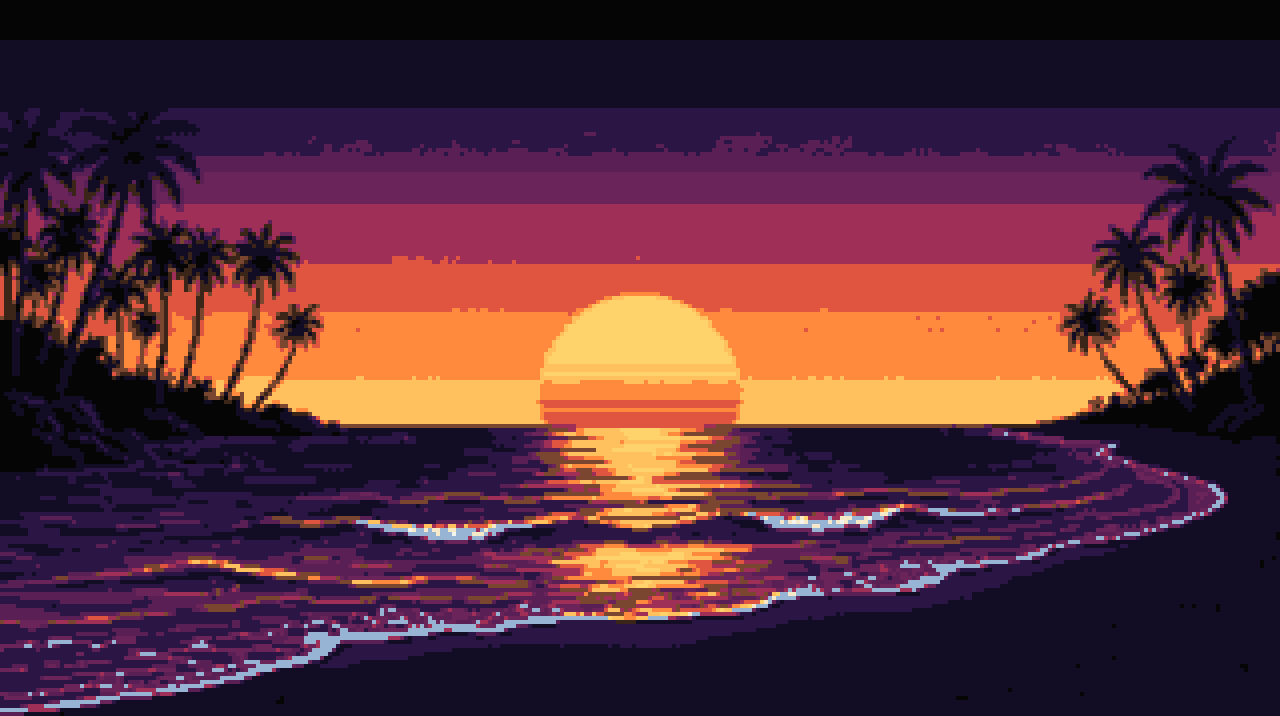
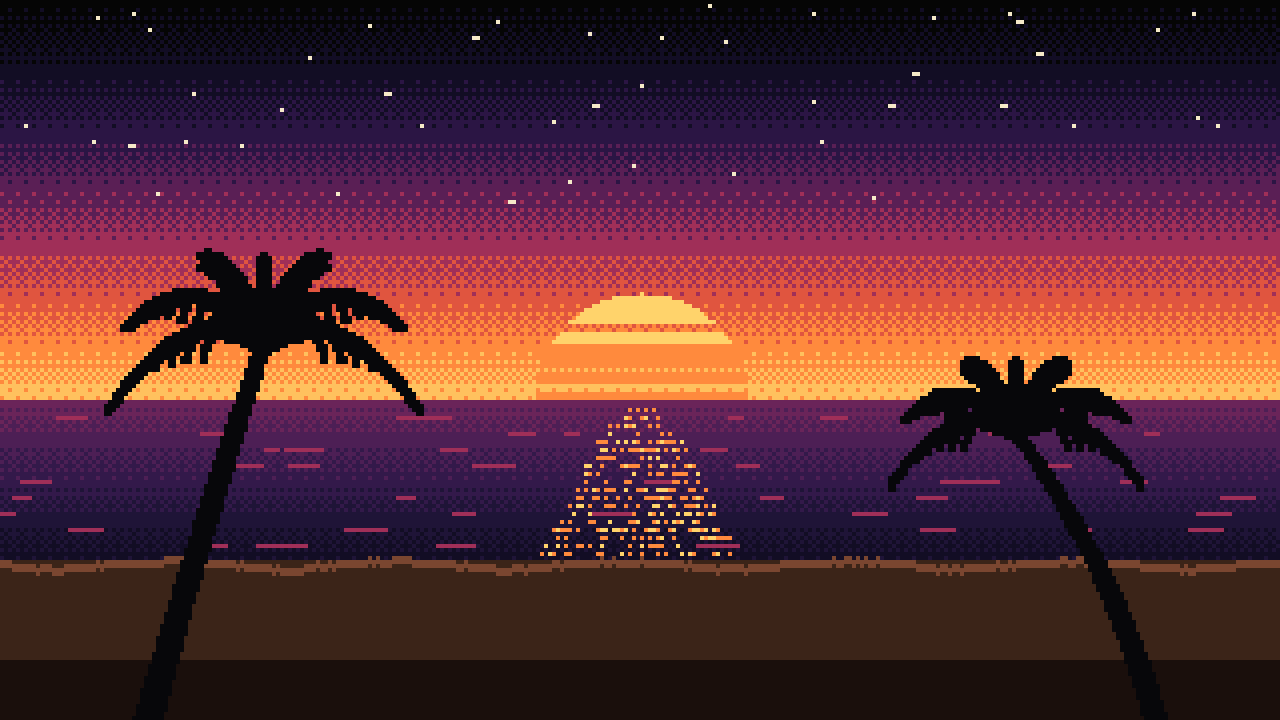
feat(ui): apply user master pixel scene to hero, generate matching builder workstation, remove all coordinates, refine docs search input, and clean unwanted images

diff --git a/apps/web/src/components/primitives/SectionHeader.tsx b/apps/web/src/components/primitives/SectionHeader.tsx
@@ -15,8 +15,8 @@ interface SectionHeaderProps {
 }
 
 export default function SectionHeader({
-  coordinates = "15°29'N 73°49'E",
-  category = "AEK_MISSION_HUD",
+  coordinates,
+  category = "SYSTEM_ARCHITECTURE",
   sectionCode = "SEC_02",
   sectionNumber,
   sectionNum,
@@ -28,46 +28,39 @@ export default function SectionHeader({
   className = "",
 }: SectionHeaderProps) {
   const isCenter = align === "center";
-  const num = sectionNumber || sectionNum;
+  const num = sectionNumber || sectionNum || "00";
 
   return (
     <div className={`mb-12 sm:mb-16 ${isCenter ? "text-center mx-auto max-w-3xl" : "text-left max-w-3xl"} ${className}`}>
-      {/* 1. Tracked Monospace Classified Eyebrow */}
-      <div className="label text-[11px] text-muted tracking-widest flex items-center gap-2 mb-2 justify-center">
+      {/* 1. Tracked Monospace Clean Eyebrow */}
+      <div className={`label text-[11px] text-muted tracking-widest flex items-center gap-2 mb-2 ${isCenter ? "justify-center" : "justify-start"}`}>
         <span className="text-accent-primary font-bold">✦</span>
-        <span>{coordinates}</span>
+        <span className="text-accent-gold font-bold font-mono">§{num}</span>
         <span className="text-border">•</span>
-        <span>{category}</span>
+        <span className="font-mono uppercase">{sectionTag || category}</span>
         <span className="text-border">•</span>
-        <span className="text-accent-gold font-bold">{sectionCode}</span>
+        <span className="text-accent-primary font-mono font-bold">{sectionCode}</span>
       </div>
 
-      {/* 2. Sub-label with § mark and optional badge */}
-      {(num || sectionTag || badgePill) && (
-        <div className="flex items-center gap-2 justify-center mb-3">
-          <span className="text-xs font-mono font-bold uppercase tracking-wider text-accent-secondary">
-            §{num || "00"} — {sectionTag || "PROTOCOL"}
-          </span>
-          {badgePill && (
-            <span className="px-2 py-0.5 rounded text-[10px] font-mono font-bold bg-surface-card border border-border text-accent-gold uppercase">
-              {badgePill}
-            </span>
-          )}
-        </div>
-      )}
-
-      {/* 3. High-Impact H2 Headline */}
+      {/* 2. Primary Headline (Editorial Style) */}
       <h2 className="font-display text-3xl sm:text-4xl md:text-5xl font-black text-fg tracking-tight leading-[1.08] mb-3">
         {title}
       </h2>
 
-      {/* 4. Single-Sentence Subtitle */}
+      {/* 3. Subtitle / Summary Line */}
       {subtitle && (
         <p className="text-sm sm:text-base text-muted font-normal leading-relaxed max-w-2xl mx-auto">
           {subtitle}
         </p>
       )}
+
+      {/* 4. Optional Extra Status Badge */}
+      {badgePill && (
+        <div className={`mt-4 inline-flex items-center gap-2 px-3 py-1 rounded-full border border-border bg-surface-card text-xs font-mono ${isCenter ? "mx-auto" : ""}`}>
+          <span className="w-1.5 h-1.5 rounded-full bg-accent-gold animate-pulse" />
+          <span className="text-fg font-medium">{badgePill}</span>
+        </div>
+      )}
     </div>
   );
 }
-

diff --git a/apps/web/src/components/Hero.tsx b/apps/web/src/components/Hero.tsx
@@ -40,8 +40,8 @@ export default function Hero() {
   };
 
   return (
-    <section className="relative min-h-[calc(100vh-4.5rem)] lg:h-[calc(100vh-4.5rem)] flex flex-col justify-between py-6 px-4 sm:px-6 lg:px-8 overflow-hidden bg-space-black">
-      {/* 16-bit Coastal Pixel Art Background */}
+    <section className="relative min-h-[calc(100vh-4.5rem)] flex flex-col justify-between pt-6 pb-12 px-4 sm:px-6 lg:px-8 overflow-hidden bg-space-black">
+      {/* 16-bit Coastal Pixel Art Sunset Background */}
       <div className="absolute inset-0 z-0 overflow-hidden pointer-events-none select-none">
         <Image
           src="/images/hero-scene@4x.png"
@@ -49,7 +49,7 @@ export default function Hero() {
           fill
           priority
           sizes="100vw"
-          className="object-cover object-bottom opacity-30 mix-blend-screen pixelated"
+          className="object-cover object-bottom opacity-35 mix-blend-screen pixelated"
         />
         {/* Coastal sunset gradient overlay */}
         <div className="absolute inset-0 bg-gradient-to-t from-space-black via-space-black/75 to-transparent" />
@@ -60,17 +60,17 @@ export default function Hero() {
       <div className="max-w-content w-full mx-auto relative z-10 grid grid-cols-1 lg:grid-cols-12 gap-8 lg:gap-12 items-center my-auto">
         {/* Left Column: Text & Editorial Hierarchy (Left te text show kr) */}
         <div className="lg:col-span-7 flex flex-col items-center lg:items-start text-center lg:text-left">
-          {/* Classified Radar & Time Awareness Beacon */}
+          {/* System Status & Time Awareness Beacon */}
           <div className="inline-flex flex-wrap items-center gap-2 px-3.5 py-1.5 rounded-full border-2 border-primary-gold/40 bg-space-surface/90 text-xs font-mono text-primary-gold mb-4 sm:mb-6 shadow-hard-sm">
             <span className="relative flex h-2.5 w-2.5">
               <span className="animate-ping absolute inline-flex h-full w-full rounded-full bg-emerald-400 opacity-75" />
               <span className="relative inline-flex rounded-full h-2.5 w-2.5 bg-emerald-500" />
             </span>
             <span className="font-bold tracking-wider">
-              <DecryptText text="15°29'N 73°49'E" />
+              <DecryptText text="AEK_CORE::ONLINE" />
             </span>
             <span className="text-secondary-mauve">•</span>
-            <span className="text-paper-beige font-semibold">SEC_00: RADAR ACTIVE</span>
+            <span className="text-paper-beige font-semibold">AUTONOMOUS ENGINE</span>
             <span className="text-secondary-mauve">•</span>
             <span className="text-primary-gold font-mono font-bold flex items-center gap-1">
               <Clock className="w-3 h-3 text-primary-gold" />

diff --git a/apps/web/src/components/OpenSourceSection.tsx b/apps/web/src/components/OpenSourceSection.tsx
@@ -29,13 +29,13 @@ export default function OpenSourceSection() {
   return (
     <section className="py-24 px-4 sm:px-6 lg:px-8 bg-space-black border-t border-space-border relative overflow-hidden">
       <div className="max-w-4xl mx-auto rounded-3xl p-8 sm:p-12 border-2 border-primary-gold/40 bg-space-deep shadow-hard-md text-center relative z-10">
-        {/* Coastal Builder Motif: Aesthetic Laptop on Sand Pixel Art */}
-        <div className="relative w-56 sm:w-72 h-32 sm:h-40 mx-auto mb-6 rounded-2xl bg-space-black/90 border-2 border-primary-gold/50 shadow-hard-md overflow-hidden group hover:border-warm-orange transition-all">
+        {/* Coastal Builder Workstation Motif (Matching Hero Sunset Pixel Art) */}
+        <div className="relative w-full max-w-lg h-44 sm:h-56 mx-auto mb-6 rounded-2xl bg-space-black/90 border-2 border-primary-gold/50 shadow-hard-md overflow-hidden group hover:border-warm-orange transition-all">
           <Image
             src="/images/laptop-sand@4x.png"
-            alt="Pixel Art Laptop on Coastal Beach Sand"
+            alt="16-bit Pixel Art Builder Workstation on Coastal Beach Sand"
             fill
-            className="pixelated object-cover"
+            className="pixelated object-cover object-bottom"
             priority
           />
           <div className="absolute inset-0 bg-gradient-to-t from-space-black/60 via-transparent to-transparent pointer-events-none" />
@@ -43,7 +43,7 @@ export default function OpenSourceSection() {
 
         <div className="inline-flex items-center gap-2 px-3.5 py-1.5 rounded-full border border-primary-gold/40 bg-space-surface text-xs font-mono text-primary-gold mb-6 font-bold shadow-hard-sm">
           <Star className="w-3.5 h-3.5 text-primary-gold fill-primary-gold" />
-          <span>§08 — FREE & OPEN SOURCE SOFTWARE • 15°29&apos;N 73°49&apos;E</span>
+          <span>§08 — FREE & OPEN SOURCE SOFTWARE • DUAL LICENSED</span>
         </div>
 
         <h2 className="font-editorial text-3xl sm:text-5xl lg:text-6xl text-paper-beige tracking-tight mb-4 font-bold">

diff --git a/apps/web/src/components/DocsSidebar.tsx b/apps/web/src/components/DocsSidebar.tsx
@@ -84,13 +84,13 @@ export default function DocsSidebar() {
       <div className={`space-y-6 ${mobileExpanded ? "block" : "hidden lg:block"}`}>
         {/* Quick Filter Input */}
         <div className="relative">
-          <Search className="w-3.5 h-3.5 absolute left-3 top-1/2 -translate-y-1/2 text-sand/60" />
+          <Search className="w-3.5 h-3.5 absolute left-3 top-1/2 -translate-y-1/2 text-primary-gold/70" />
           <input
             type="text"
             value={filterQuery}
             onChange={(e) => setFilterQuery(e.target.value)}
             placeholder="Filter topics... [ / ]"
-            className="w-full pl-8 pr-3 py-2 text-xs font-mono bg-space-surface/90 border-2 border-space-border focus:border-primary-gold rounded-xl text-paper-beige placeholder-sand/50 outline-none transition-all shadow-hard-sm"
+            className="w-full pl-8 pr-8 py-2 text-xs font-mono bg-[#0D0B18] border-2 border-space-border focus:border-primary-gold rounded-lg text-[#F4F4EE] placeholder:text-sand/50 outline-none transition-all shadow-hard-sm"
           />
           {filterQuery && (
             <button

diff --git a/apps/web/src/components/AgentLogo.tsx b/apps/web/src/components/AgentLogo.tsx
@@ -50,10 +50,10 @@ export default function AgentLogo({ agent, className = "w-6 h-6", size = 24 }: A
           aria-label="Anthropic Claude Code"
         >
           <path
-            d="M13.82 2.5a.7.7 0 0 0-1.14-.38L9.2 4.96a.7.7 0 0 0-.25.54v2.75a.7.7 0 0 1-.35.61L6.2 10.22a.7.7 0 0 0-.35.6v3.36a.7.7 0 0 0 .35.61l2.4 1.36a.7.7 0 0 1 .35.6v2.76a.7.7 0 0 0 .25.54l3.48 2.84a.7.7 0 0 0 1.14-.38l1.08-3.3a.7.7 0 0 1 .46-.46l3.3-1.08a.7.7 0 0 0 .38-1.14l-2.84-3.48a.7.7 0 0 1 0-.88l2.84-3.48a.7.7 0 0 0-.38-1.14l-3.3-1.08a.7.7 0 0 1-.46-.46l-1.08-3.3Z"
-            fill="#CC785C"
+            d="M12 2L13.1 7.2L17.5 4.1L15.3 8.9L20.5 8.5L16.7 12L20.5 15.5L15.3 15.1L17.5 19.9L13.1 16.8L12 22L10.9 16.8L6.5 19.9L8.7 15.1L3.5 15.5L7.3 12L3.5 8.5L8.7 8.9L6.5 4.1L10.9 7.2L12 2Z"
+            fill="#D97757"
           />
-          <circle cx="12" cy="12" r="3" fill="#FFF5EA" opacity="0.9" />
+          <circle cx="12" cy="12" r="2.5" fill="#FAF5EF" />
         </svg>
       );
 

diff --git a/apps/web/src/components/InteractiveTerminal.tsx b/apps/web/src/components/InteractiveTerminal.tsx
@@ -108,7 +108,7 @@ export default function InteractiveTerminal() {
       <div className="max-w-content mx-auto">
         <SectionHeader
           sectionNum="04"
-          coordinates="15°29'N 73°49'E • SEC_04"
+          sectionCode="SEC_04"
           title="Deterministic control at your fingertips."
           subtitle="Safe subprocess execution with direct argument arrays. Zero shell injection vulnerabilities."
           align="center"
@@ -135,7 +135,7 @@ export default function InteractiveTerminal() {
               <span className="w-3 h-3 rounded-full bg-amber-500/80 border border-amber-600/50" />
               <span className="w-3 h-3 rounded-full bg-emerald-500/80 border border-emerald-600/50" />
               <span className="font-mono text-xs text-primary-gold ml-2 font-bold">
-                aek-terminal ~ v0.1.0 • 15°29&apos;N 73°49&apos;E
+                aek-terminal ~ v0.1.0 • RUST_STABLE
               </span>
             </div>
 

diff --git a/apps/web/src/components/Footer.tsx b/apps/web/src/components/Footer.tsx
@@ -14,7 +14,7 @@ export default function Footer() {
         <div className="pb-16 border-b-2 border-space-border/80 text-center sm:text-left flex flex-col md:flex-row md:items-end justify-between gap-8">
           <div>
             <div className="inline-flex items-center gap-2 px-3 py-1 rounded-full border border-primary-gold/40 bg-space-surface text-xs font-mono text-primary-gold mb-4 font-bold shadow-hard-sm">
-              <span>✦ 15°29&apos;N 73&apos;49&apos;E • GOA COASTAL TERMINAL</span>
+              <span>✦ AEK AUTONOMOUS ENGINEERING KIT</span>
             </div>
             <h2 className="font-editorial text-4xl sm:text-6xl lg:text-7xl text-paper-beige tracking-tight font-bold">
               Build beyond the <span className="italic text-gradient-editorial">ordinary.</span>

diff --git a/apps/web/src/tests/components.test.tsx b/apps/web/src/tests/components.test.tsx
@@ -129,10 +129,10 @@ describe("Phase 2 Primitives: FilterChip", () => {
 });
 
 describe("Phase 3 Sections: Hero", () => {
-  it("renders classified radar coordinates and primary CTAs", () => {
+  it("renders system status beacon and primary CTAs", () => {
     render(<Hero />);
-    expect(screen.getAllByText(/15°29'N 73°49'E/i).length).toBeGreaterThanOrEqual(1);
-    expect(screen.getByText(/SEC_00: RADAR ACTIVE/i)).toBeDefined();
+    expect(screen.getByText(/AEK_CORE::ONLINE/i)).toBeDefined();
+    expect(screen.getByText(/AUTONOMOUS ENGINE/i)).toBeDefined();
     expect(screen.getByText(/Get AEK/i)).toBeDefined();
     expect(screen.getByText(/cargo install aek-cli/i)).toBeDefined();
   });

diff --git a/apps/web/src/components/primitives/ConsoleMenu.tsx b/apps/web/src/components/primitives/ConsoleMenu.tsx
@@ -64,7 +64,7 @@ export default function ConsoleMenu({ isOpen, onClose }: ConsoleMenuProps) {
         <div className="flex items-center gap-3">
           <span className="w-3 h-3 rounded-full bg-accent-primary animate-radar" />
           <span className="font-mono text-xs font-bold tracking-widest uppercase text-accent-gold">
-            SYS_CONSOLE // 15°29&apos;N 73°49&apos;E
+            SYS_CONSOLE // SYSTEM CONTROL DECK
           </span>
           <span className="px-2 py-0.5 rounded text-[10px] font-mono font-bold bg-surface-card border border-border text-accent-secondary">
             v{LATEST_VERSION} RUST

diff --git a/apps/web/src/components/LiveTelemetry.tsx b/apps/web/src/components/LiveTelemetry.tsx
@@ -38,7 +38,7 @@ const METRICS = [
 
 export default function LiveTelemetry() {
   return (
-    <section className="w-full max-w-content mx-auto px-4 sm:px-6 lg:px-8 -mt-6 mb-16 relative z-20">
+    <section className="w-full max-w-content mx-auto px-4 sm:px-6 lg:px-8 mt-10 sm:mt-14 mb-20 relative z-20">
       <div className="rounded-2xl border-2 border-primary-gold/40 bg-space-deep/95 p-6 backdrop-blur-xl shadow-hard-md relative overflow-hidden">
         {/* Top Status Banner */}
         <div className="flex flex-wrap items-center justify-between gap-4 pb-5 border-b border-space-border/80">

diff --git a/apps/web/src/components/primitives/TerminalWindow.tsx b/apps/web/src/components/primitives/TerminalWindow.tsx
@@ -45,7 +45,7 @@ export default function TerminalWindow({
         </div>
 
         <div className="flex items-center gap-3">
-          <span className="text-[10px] text-muted hidden sm:inline">15°29&apos;N 73°49&apos;E</span>
+          <span className="text-[10px] text-muted hidden sm:inline">RUST_SUBPROCESS</span>
           <button
             onClick={handleCopy}
             className="p-1.5 rounded hover:bg-surface-card hover:text-fg transition-colors flex items-center gap-1 text-[11px] text-accent-gold"

diff --git a/apps/web/src/components/EditorialBentoGrid.tsx b/apps/web/src/components/EditorialBentoGrid.tsx
@@ -99,7 +99,7 @@ export default function EditorialBentoGrid() {
       <div className="max-w-content mx-auto relative z-10">
         <SectionHeader
           sectionNum="03"
-          coordinates="15°29'N 73°49'E • SEC_03"
+          sectionCode="SEC_03"
           title="Precision engineering by architectural design."
           subtitle="Sixteen interconnected Rust crates working in harmony to replace fragile prompt engineering with durable systems infrastructure."
         />
